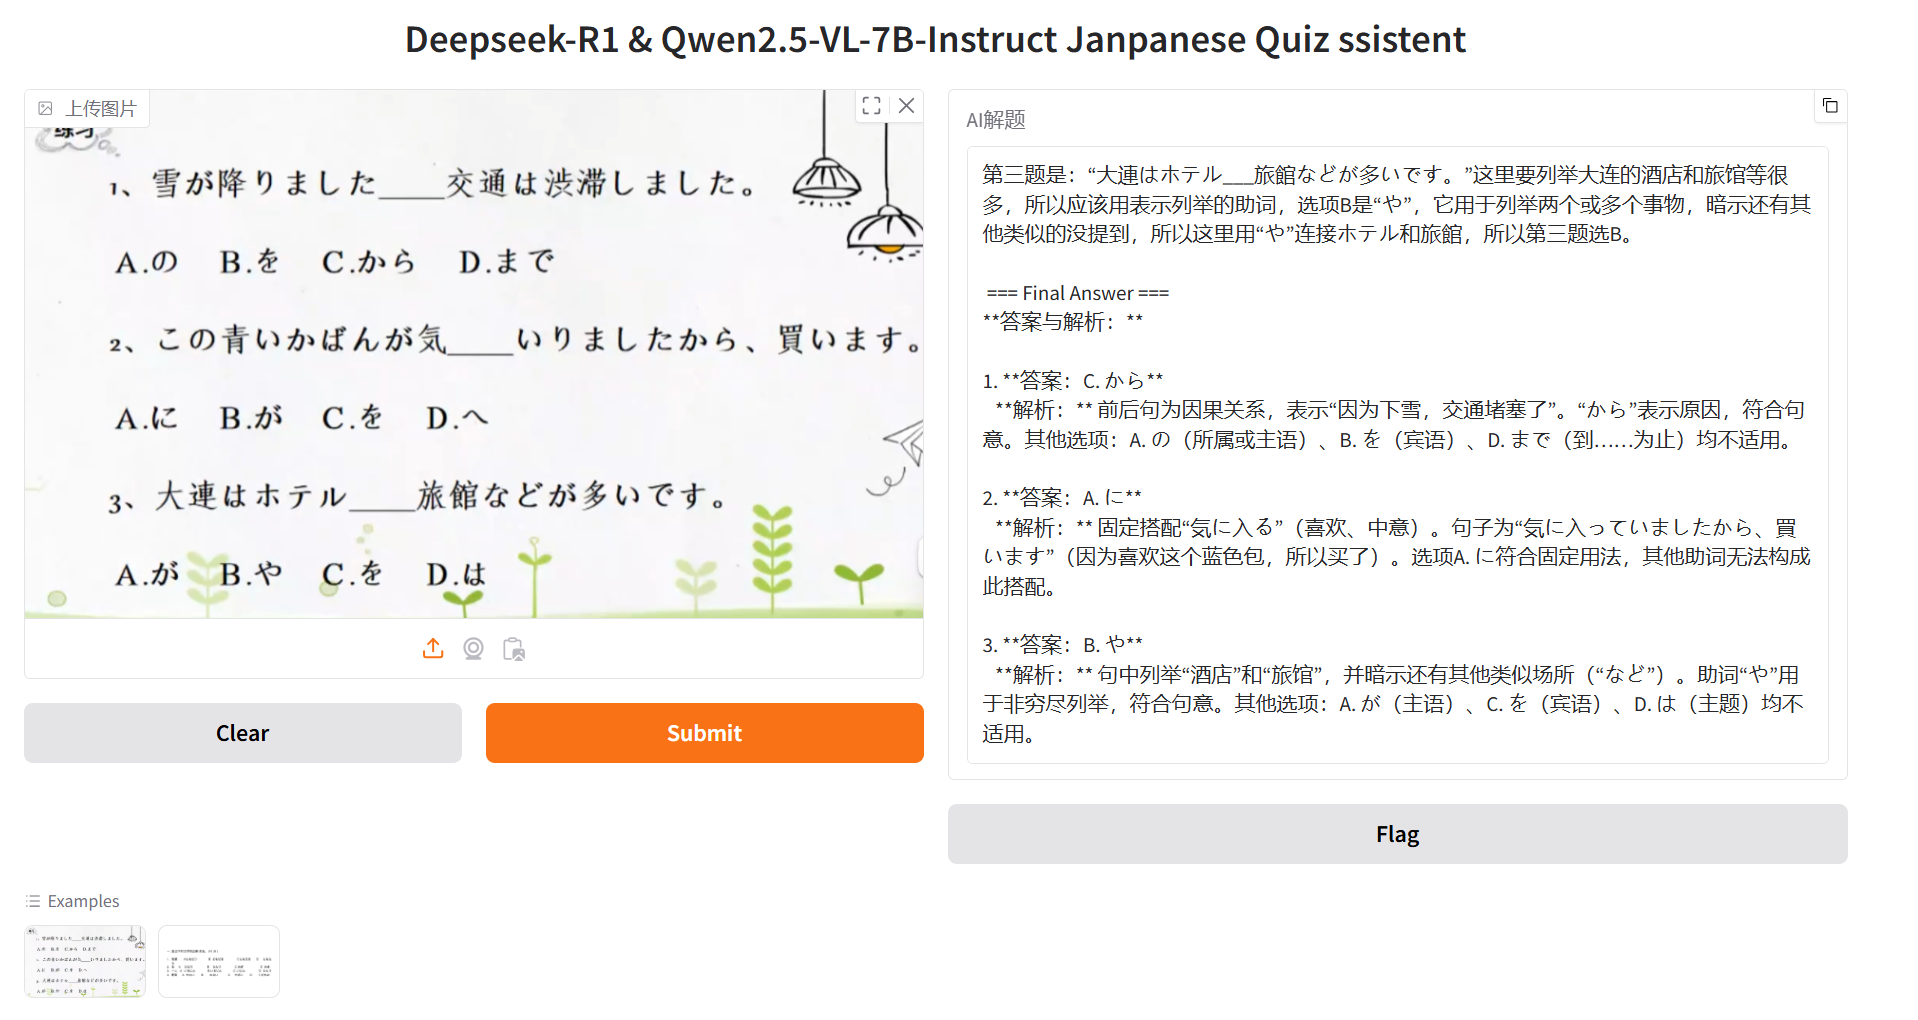
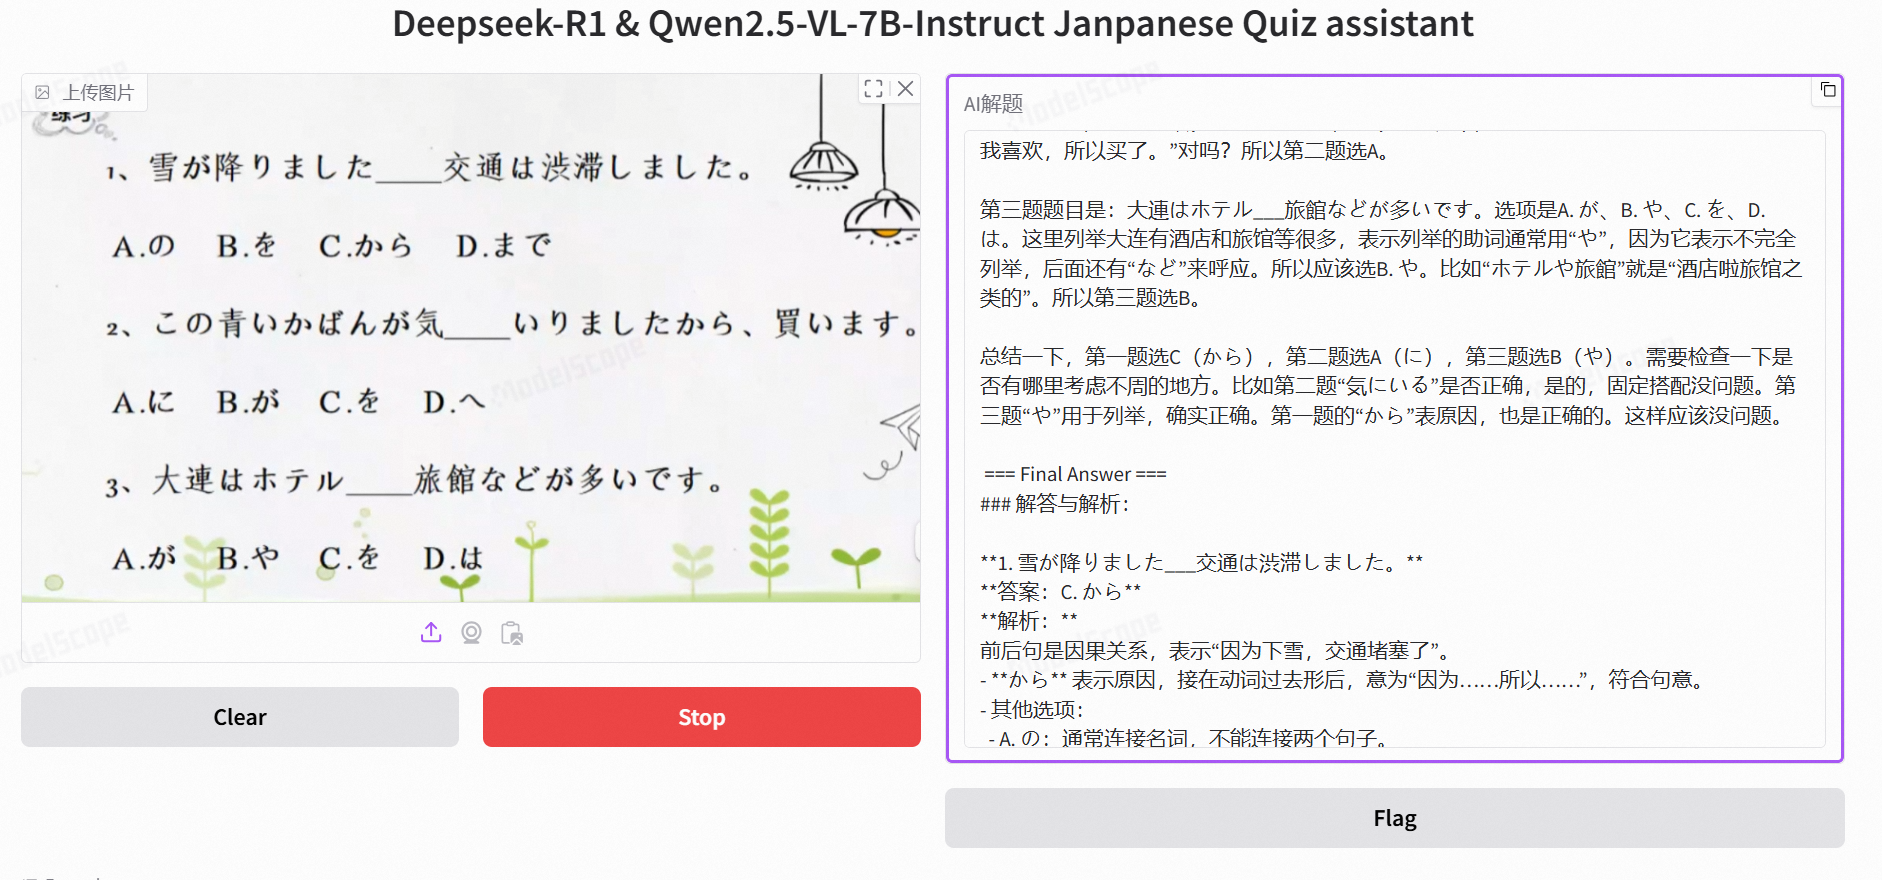
assis

diff --git a/others/app_simple.py b/others/app_simple.py
@@ -88,7 +88,7 @@ demo = gr.Interface(model_inference,
                   outputs=[gr.Textbox(label="Output Prompt", lines=2, show_copy_button=True),
                            # gr.Image(label="Output Image")
                            ],
-                  title="Deepseek-R1 & Qwen2.5-VL-7B-Instruct Janpanese Quiz ssistent",
+                  title="Deepseek-R1 & Qwen2.5-VL-7B-Instruct Janpanese Quiz assistant",
                   cache_examples=True
                   )
 

diff --git a/others/appv1.py b/others/appv1.py
@@ -92,7 +92,7 @@ examples = [
 
 demo = gr.ChatInterface(
     fn=model_inference,
-    description="# **Deepseek-R1 & Qwen2.5-VL-7B-Instruct Janpanese Quiz ssistent**",
+    description="# **Deepseek-R1 & Qwen2.5-VL-7B-Instruct Janpanese Quiz assistant**",
     examples=examples,
     textbox=gr.MultimodalTextbox(label="Query Input", file_types=["image"],value="请解答一下日语题，给出答案和解题思路：", file_count="multiple"),
     stop_btn="Stop Generation",

diff --git a/app.py b/app.py
@@ -88,7 +88,7 @@ demo = gr.Interface(model_inference,
                   outputs=[gr.Textbox(label="AI解题", lines=2, show_copy_button=True),
                            # gr.Image(label="Output Image")
                            ],
-                  title="Deepseek-R1 & Qwen2.5-VL-7B-Instruct Janpanese Quiz ssistent"
+                  title="Deepseek-R1 & Qwen2.5-VL-7B-Instruct Janpanese Quiz assistant"
                   )
 
 demo.launch(debug=True)

diff --git a/others/app_gpu_stream.py b/others/app_gpu_stream.py
@@ -97,7 +97,7 @@ demo = gr.Interface(model_inference,
                   outputs=[gr.Textbox(label="AI解题", lines=2, show_copy_button=True),
                            # gr.Image(label="Output Image")
                            ],
-                  title="Deepseek-R1 & Qwen2.5-VL-7B-Instruct Janpanese Quiz ssistent"
+                  title="Deepseek-R1 & Qwen2.5-VL-7B-Instruct Janpanese Quiz assistant"
                   )
 
 demo.launch(debug=True)
